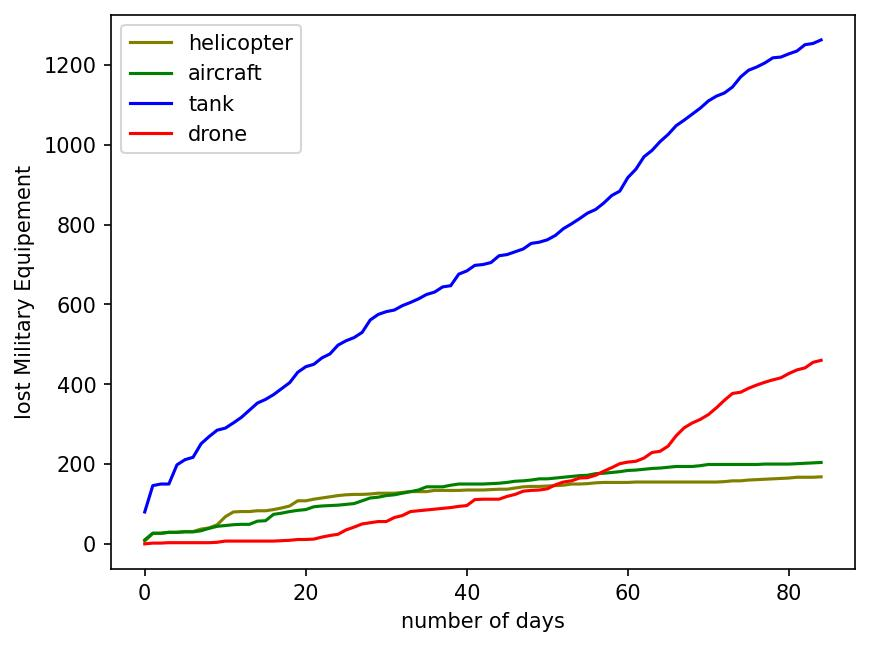
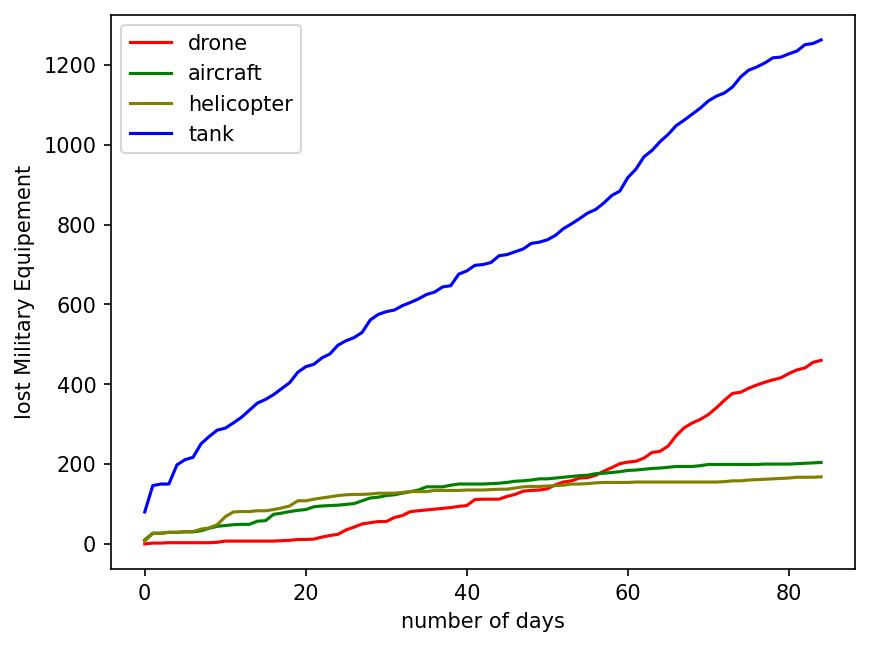
commit
commit

diff --git a/templates/Home.html b/templates/Home.html
@@ -3,10 +3,27 @@
 <head>
     <meta charset="UTF-8">
     <title>Ukraine War</title>
+    <script src="https://ajax.googleapis.com/ajax/libs/jquery/3.6.0/jquery.min.js"></script>
 </head>
 <body>
 <p>All Russian Military Machines lost in the Ukraine war</p>
 </br>
-<img src='static/Output.jpg'>
+<input type="checkbox" id="drone" name="drone" value="drone">
+<label for="drone"> drone</label><br>
+
+<input type="checkbox" id="helicopter" name="helicopter" value="helicopter">
+<label for="helicopter"> helicopter</label><br>
+
+<input type="checkbox" id="aircraft" name="aircraft" value="aircraft">
+<label for="aircraft"> aircraft</label><br>
+
+<input type="checkbox" id="tank" name="tank" value="tank">
+<label for="tank"> tank</label><br>
+
+<button type="button" onclick="sendRequest()">Click Me!</button>
+
+<img id="chart" >
+<script src="static/Scripts/home.js"></script>
 </body>
+
 </html>

diff --git a/static/Scripts/home.js b/static/Scripts/home.js
@@ -1,0 +1,45 @@
+function sendRequest(){
+var array = new Array ();
+var drone = document.getElementById("drone");
+var aircraft = document.getElementById("aircraft");
+var tank = document.getElementById("tank");
+var helicopter = document.getElementById("helicopter");
+
+
+if (drone.checked){
+drone="true";
+}else{
+drone="false"
+}
+
+if (aircraft.checked){
+aircraft="true";
+}else{
+aircraft="false"
+}
+
+if (tank.checked){
+tank="true";
+}else{
+tank="false"
+}
+
+if (helicopter.checked){
+helicopter="true";
+}else{
+helicopter="false"
+}
+var d = new Date().getTime();
+$.ajax({
+    url: '/type',
+    type: 'GET',
+    data : {drone: drone, aircraft: aircraft,helicopter:helicopter,tank: tank},
+    success: function(response){
+        $("#chart").attr("src", "static/Output.jpg?"+d);
+     },
+    error: function(error){
+      console.log(error)
+    }
+});
+
+}

diff --git a/main.py b/main.py
@@ -1,5 +1,6 @@
-from flask import Flask, render_template
+from flask import Flask, render_template, request
 import matplotlib.pyplot as plt
+import requests;
 
 import matplotlib as mpl
 
@@ -11,43 +12,38 @@ app = Flask(__name__)
 app.debug = True
 
 
-@app.route("/")
-def hello_world():
+@app.route("/type", methods=['GET', 'POST'])
+def createplot():
     file = 'Ukraine_war.csv'
     if file != '':
+        print(request.values["drone"])
+
         with open(file) as csvfile:
-            reader = csv.DictReader(csvfile)
-
-            # count = 0
-
-            # Read  the data from .csv-file
-
             data = pd.read_csv("ukraine_war.csv")
+            if request.values["drone"]=="true":
+                x1 = data["drone"]
+                plt.plot(x1, color='red', label='drone')
 
-            x = data["personnel"]
+            if request.values["aircraft"]=="true":
+                x2 = data["aircraft"]
+                plt.plot(x2, color='green', label='aircraft')
 
-            x2 = data["helicopter"]
+            if request.values["helicopter"]=="true":
+                x3 = data["helicopter"]
+                plt.plot(x3, color='olive', label='helicopter')
 
-            x3 = data["aircraft"]
+            if request.values["tank"]=="true":
+                x4 = data["tank"]
+                plt.plot(x4, color='blue', label='tank')
 
-            x4 = data["tank"]
-
-            x5 = data["drone"]
-
-            # plt.plot(x)
-
-            plt.plot(x2, color='olive', label='helicopter')
-
-            plt.plot(x3, color='green', label='aircraft')
-
-            plt.plot(x4, color='blue', label='tank')
-
-            plt.plot(x5, color='red', label='drone')
             plt.legend()
             plt.ylabel('lost Military Equipement')
             plt.xlabel('number of days')
-
-
             plt.savefig('static/Output.jpg', bbox_inches='tight', dpi=150)
+            plt.close()
+    return ""
 
+@app.route("/")
+def home():
     return render_template('home.html')
+
